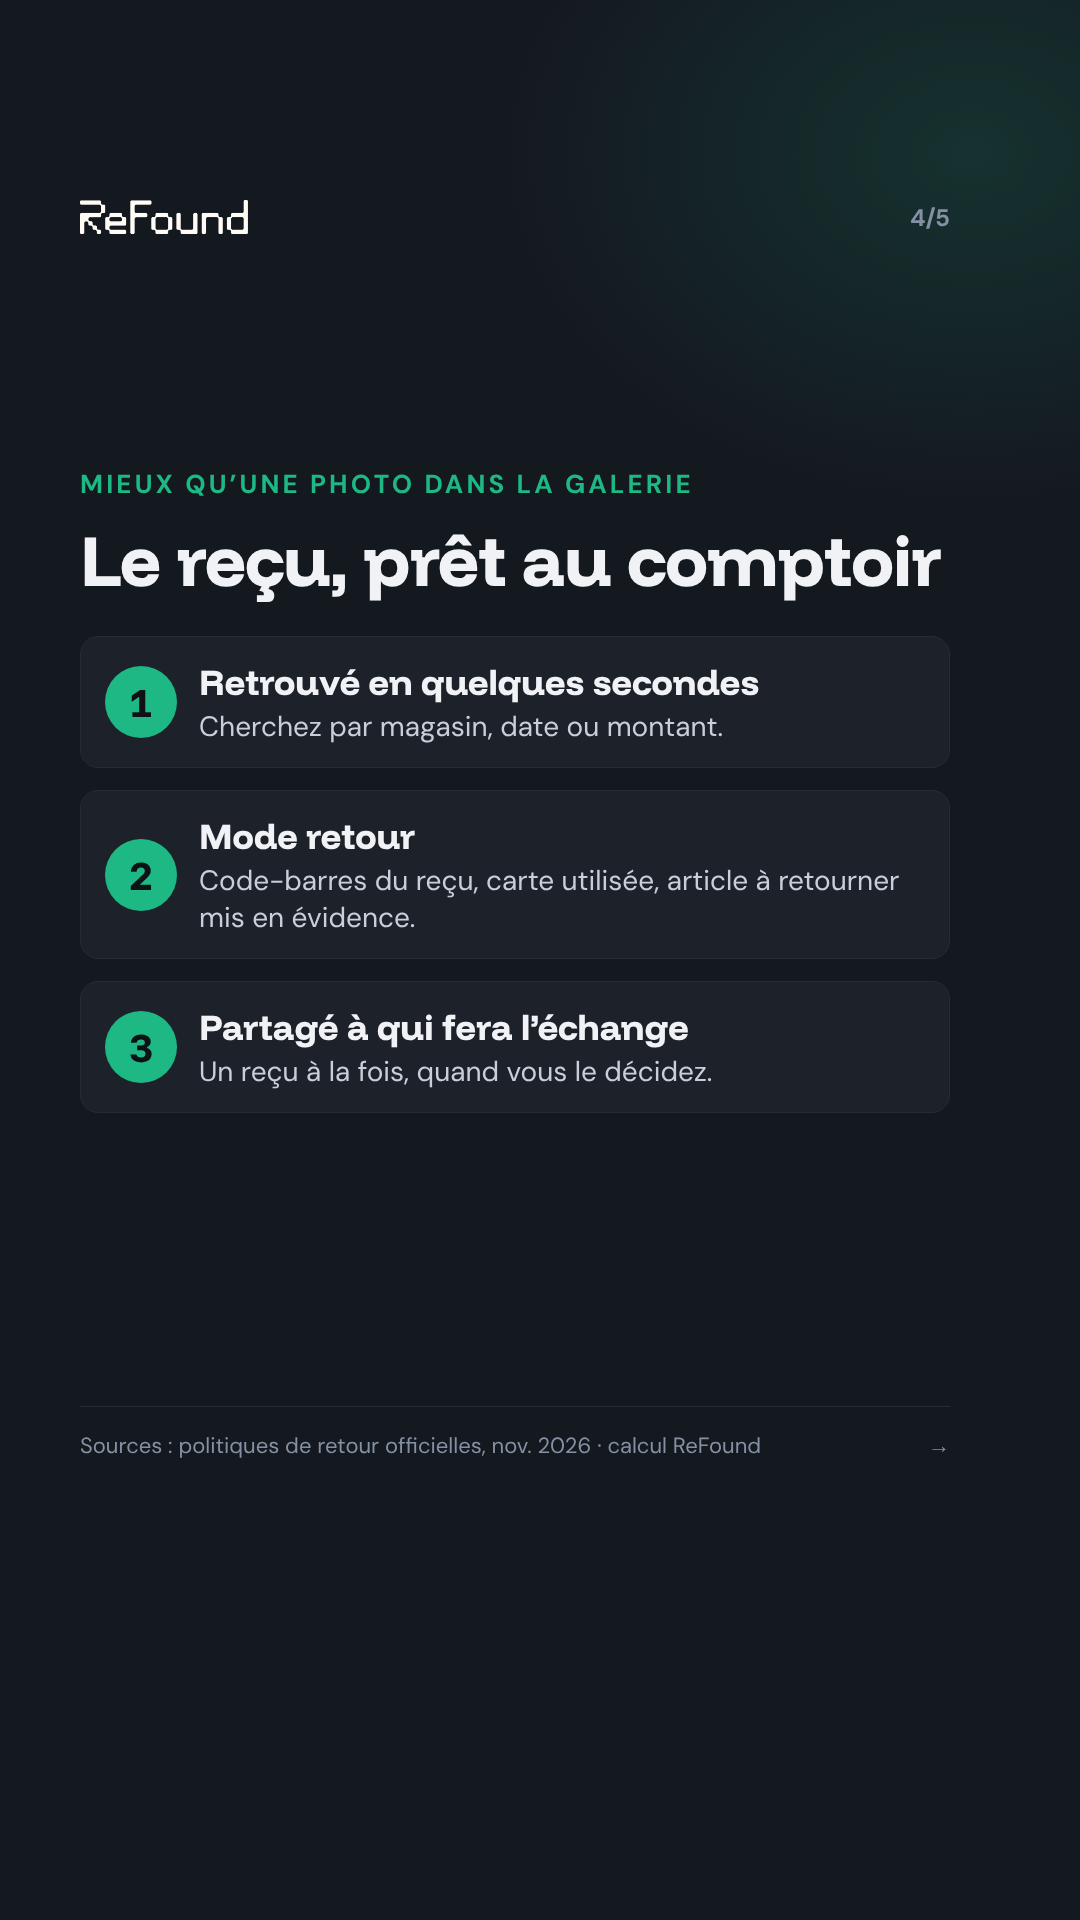
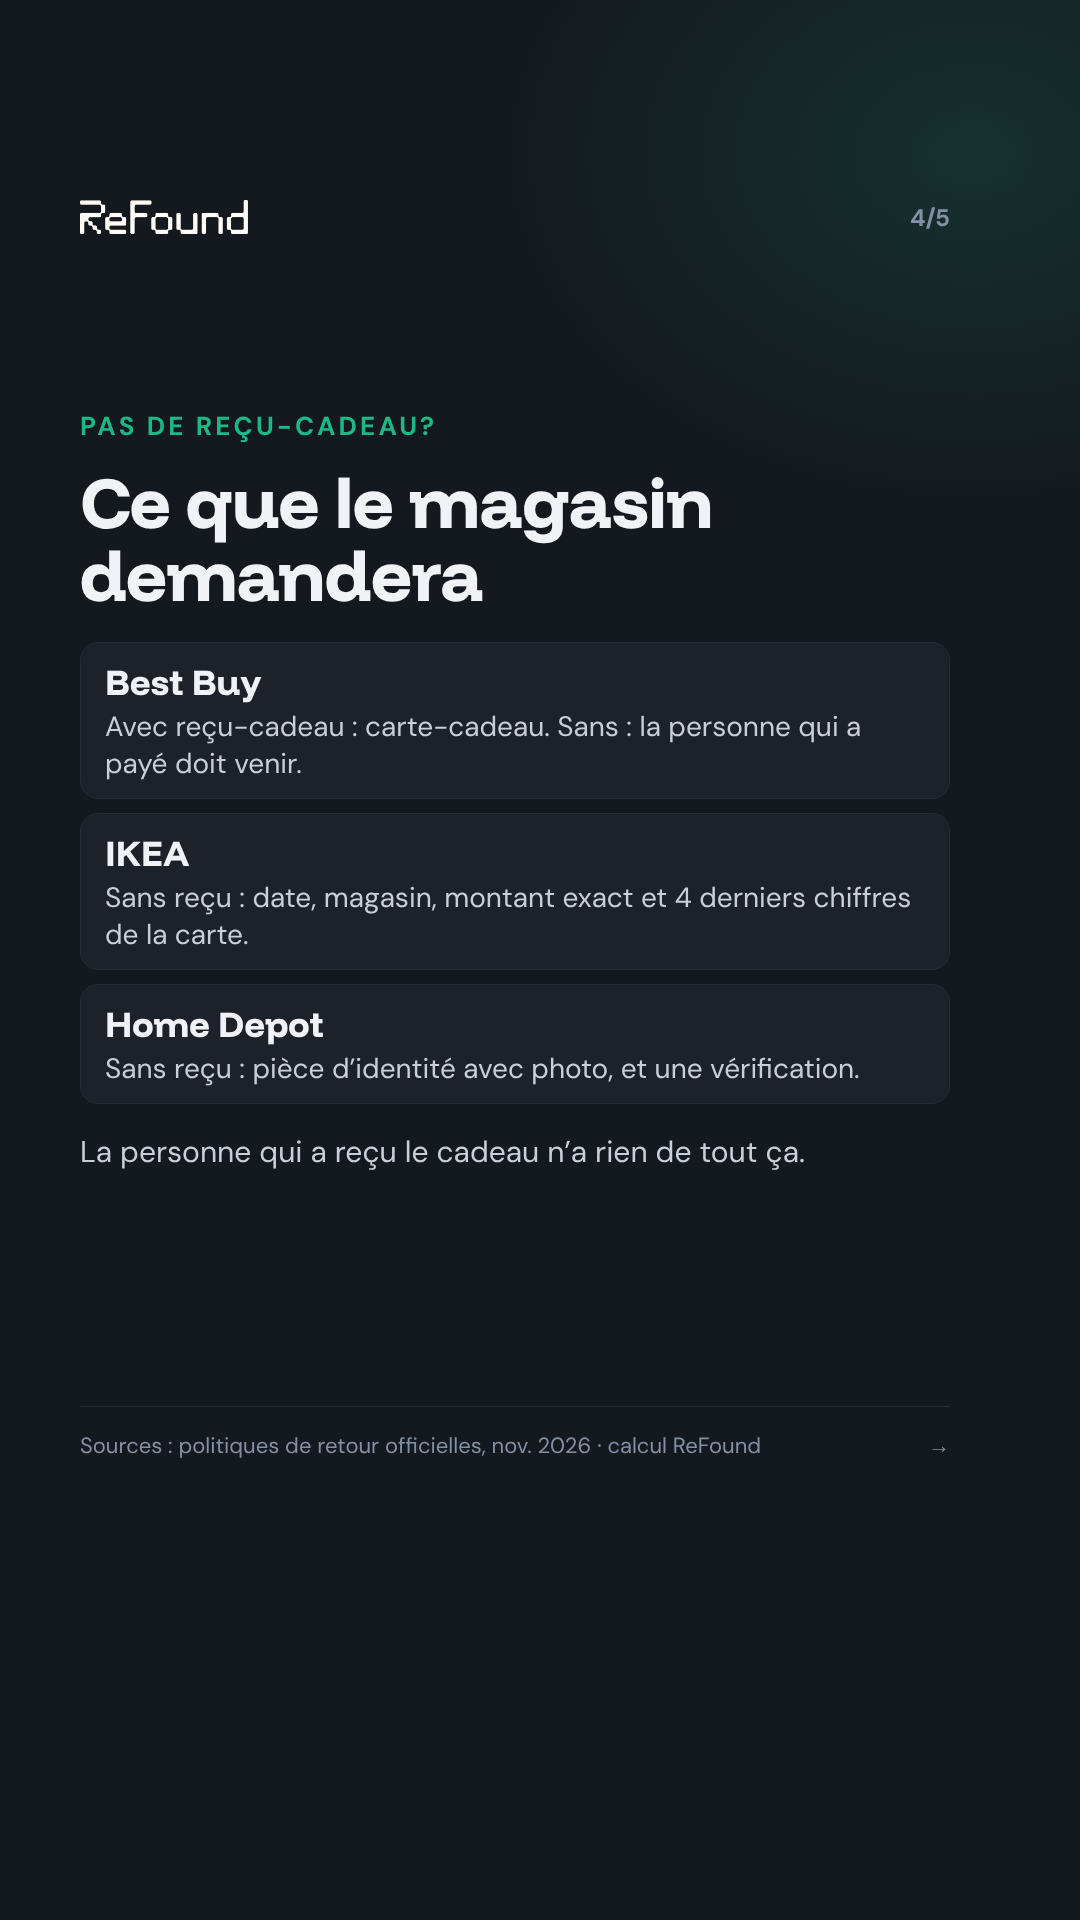
retourner-cadeau-noel carousel v4: app only on last slide, slide 4 = what stores ask without a receipt; VALIDATION lessons
Claude-Session: https://claude.ai/code/session_01RobFqgR2K4ctFiasTkgThL

diff --git a/social/retourner-cadeau-noel/slides.js b/social/retourner-cadeau-noel/slides.js
@@ -6,6 +6,8 @@
 // v2 après une ronde de personas (5,5 / 6 / 7) : magasins nommés sans numéros, Walmart, Costco et RONA ajoutés, « électronique » défini,
 // diapo Best Buy fusionnée, exemple de reçu hors sujet retiré, problème réel (le reçu est chez celui qui a payé).
 // v3 après la ronde 2 (7,5 / 7 / 8,5) : conseils génériques remplacés par ce que l'app fait de plus qu'une photo (facts/product.md : recherche du reçu complet, mode retour, partage — gratuits).
+// v4 (demande de David) : l'app seulement à la dernière diapo, nommée « l'app » ; diapo 4 = ce que les magasins demandent sans reçu (article, 12 nov. 2026).
+// Ronde 4 : 7,5 / 7,5 / 8,5 ; dernière diapo reliée au problème (partage du reçu).
 // Finale ronde 3 : Julie 8, Samuel 7,5, Gilles 9. Reste : aucune capture d'écran de l'app (demander à David une vraie capture du mode retour).
 module.exports = {
   fr: { src: 'Sources : politiques de retour officielles, nov. 2026 · calcul ReFound', slides: [
@@ -17,12 +19,13 @@ module.exports = {
       ['Costco', 'Télé et électronique : 25 févr.'],
       ['Best Buy', '10 janv. · Mais aucun retour en magasin le 26 déc.']],
       text: 'Électronique : télé, son, photo, téléphones. Walmart n’a pas annoncé de prolongation des Fêtes.' },
-    { type: 'text', eyebrow: 'Le vrai problème', title: 'Le cadeau est chez eux. Le reçu est chez vous.', text: 'Pour un retour, le magasin demande une preuve d’achat. C’est la personne qui a payé qui l’a : date, montant, carte.' },
-    { type: 'list', eyebrow: 'Mieux qu’une photo dans la galerie', title: 'Le reçu, prêt au comptoir', items: [
-      ['Retrouvé en quelques secondes', 'Cherchez par magasin, date ou montant.'],
-      ['Mode retour', 'Code-barres du reçu, carte utilisée, article à retourner mis en évidence.'],
-      ['Partagé à qui fera l’échange', 'Un reçu à la fois, quand vous le décidez.']] },
-    { type: 'cta', eyebrow: 'Gratuit · iPhone et Android', title: 'Téléchargez ReFound avant le Vendredi fou', text: 'Numérisez le reçu à la caisse, avant d’emballer. Et demandez un reçu-cadeau : sinon, vous devrez peut-être aller vous-même au magasin.' }] },
+    { type: 'text', eyebrow: 'Le vrai problème', title: 'Le cadeau est chez eux. Le reçu est chez vous.', text: 'Pour un retour, le magasin demande une preuve d’achat. C’est la personne qui a payé qui l’a.' },
+    { type: 'list', plain: true, eyebrow: 'Pas de reçu-cadeau?', title: 'Ce que le magasin demandera', items: [
+      ['Best Buy', 'Avec reçu-cadeau : carte-cadeau. Sans : la personne qui a payé doit venir.'],
+      ['IKEA', 'Sans reçu : date, magasin, montant exact et 4 derniers chiffres de la carte.'],
+      ['Home Depot', 'Sans reçu : pièce d’identité avec photo, et une vérification.']],
+      text: 'La personne qui a reçu le cadeau n’a rien de tout ça.' },
+    { type: 'cta', eyebrow: 'Gratuit · iPhone et Android', title: 'L’app ReFound garde le reçu de chaque cadeau', text: 'Une photo à la caisse, et vous l’envoyez à la personne qui fera l’échange.' }] },
   en: { src: 'Sources: official return policies, Nov. 2026 · ReFound calculation', slides: [
     { type: 'stat', eyebrow: 'Gift bought on Black Friday', stat: '2 days', title: 'after Christmas to return electronics at Canadian Tire', text: '30 days from the purchase, not from Christmas.<br><b>November 27 + 30 days = December 27.</b>' },
     { type: 'list', plain: true, eyebrow: 'Bought November 27', title: 'Bring it back by…', items: [
@@ -32,10 +35,11 @@ module.exports = {
       ['Costco', 'TVs and electronics: Feb. 25'],
       ['Best Buy', 'Jan. 10 · But no in-store returns on Dec. 26']],
       text: 'Electronics: TVs, audio, cameras, phones. Walmart hasn’t announced a holiday extension.' },
-    { type: 'text', eyebrow: 'The real problem', title: 'The gift is at their place. The receipt is at yours.', text: 'Stores ask for proof of purchase. The person who paid has it: date, amount, card.' },
-    { type: 'list', eyebrow: 'Better than a photo in your gallery', title: 'Your receipt, ready at the counter', items: [
-      ['Found in seconds', 'Search by store, date or amount.'],
-      ['Return mode', 'Receipt barcode, card used, the item to return highlighted.'],
-      ['Shared with whoever makes the exchange', 'One receipt at a time, when you decide.']] },
-    { type: 'cta', eyebrow: 'Free · iPhone and Android', title: 'Get ReFound before Black Friday', text: 'Scan the receipt at the checkout, before you wrap. And ask for a gift receipt: otherwise, you may have to go to the store yourself.' }] }
+    { type: 'text', eyebrow: 'The real problem', title: 'The gift is at their place. The receipt is at yours.', text: 'Stores ask for proof of purchase. The person who paid has it.' },
+    { type: 'list', plain: true, eyebrow: 'No gift receipt?', title: 'What the store will ask for', items: [
+      ['Best Buy', 'With a gift receipt: a gift card. Without: the person who paid has to come in.'],
+      ['IKEA', 'No receipt: date, store, exact amount and the card’s last 4 digits.'],
+      ['Home Depot', 'No receipt: government photo ID, and a verification.']],
+      text: 'The person who received the gift has none of that.' },
+    { type: 'cta', eyebrow: 'Free · iPhone and Android', title: 'The ReFound app keeps every gift receipt', text: 'One photo at the checkout, then send it to whoever makes the exchange.' }] }
 };

diff --git a/social/retourner-cadeau-noel/caption.md b/social/retourner-cadeau-noel/caption.md
@@ -17,8 +17,8 @@ Enregistrez-le pour le Vendredi fou, et envoyez-le à la personne qui achète le
 1. Cadeau électronique acheté au Vendredi fou : 2 jours après Noël pour le retourner chez Canadian Tire. 27 novembre + 30 jours = 27 décembre.
 2. Acheté le 27 novembre, à rapporter avant : Canadian Tire et Home Depot, télé et électronique le 27 décembre, le reste le 25 février ; Walmart, électronique le 27 décembre ; RONA, électroménagers le 27 décembre ; Costco, télé et électronique le 25 février ; Best Buy, le 10 janvier, sans retour en magasin le 26 décembre.
 3. Le cadeau est chez eux, le reçu est chez vous : la preuve d'achat appartient à la personne qui a payé.
-4. Mieux qu'une photo dans la galerie : le reçu retrouvé par magasin, date ou montant ; un mode retour avec le code-barres, la carte utilisée et l'article à retourner ; le partage à qui fera l'échange.
-5. Téléchargez ReFound avant le Vendredi fou, gratuit sur iPhone et Android : numérisez le reçu à la caisse, avant d'emballer, et demandez un reçu-cadeau.
+4. Pas de reçu-cadeau? Best Buy : carte-cadeau avec le reçu-cadeau, sinon la personne qui a payé doit venir ; IKEA : date, magasin, montant exact et 4 derniers chiffres de la carte ; Home Depot : pièce d'identité avec photo et une vérification.
+5. L'app ReFound, gratuite sur iPhone et Android, garde le reçu de chaque cadeau : une photo à la caisse, et vous l'envoyez à la personne qui fera l'échange.
 
 ## EN
 Returning a Christmas gift: the clock starts at purchase, not on December 25
@@ -37,5 +37,5 @@ Save it for Black Friday, and send it to whoever buys the gifts at your place.
 1. Electronics gift bought on Black Friday: 2 days after Christmas to return it at Canadian Tire. November 27 + 30 days = December 27.
 2. Bought November 27, bring it back by: Canadian Tire and Home Depot, TVs and electronics Dec. 27, everything else Feb. 25; Walmart, electronics Dec. 27; RONA, appliances Dec. 27; Costco, TVs and electronics Feb. 25; Best Buy, Jan. 10, no in-store returns Dec. 26.
 3. The gift is at their place, the receipt is at yours: proof of purchase belongs to the person who paid.
-4. Better than a gallery photo: find the receipt by store, date or amount; return mode with the barcode, card used and item to return; share it with whoever makes the exchange.
-5. Get ReFound before Black Friday, free on iPhone and Android: scan the receipt at the checkout, before you wrap, and ask for a gift receipt.
+4. No gift receipt? Best Buy: gift card with a gift receipt, otherwise the person who paid has to come in; IKEA: date, store, exact amount and the card's last 4 digits; Home Depot: government photo ID and a verification.
+5. The ReFound app, free on iPhone and Android, keeps every gift receipt: one photo at the checkout, then send it to whoever makes the exchange.

diff --git a/social/VALIDATION.md b/social/VALIDATION.md
@@ -57,6 +57,8 @@ puis 8, 7,5 et 8,5/10 après trois rondes. David a ensuite jugé le sujet trop p
 - **Les conseils que tout le monde connaît font décrocher.** Les remplacer par ce que l'app fait de plus qu'une photo dans la galerie (recherche, mode retour, partage), seulement avec `facts/product.md`.
 - **Un exemple de reçu hors sujet (bâton de hockey dans un carrousel sur l'électronique) et un code de caisse brut perdent les gens.** Mieux vaut aucun exemple.
 - **Dernière diapo : une action précise** (« Téléchargez ReFound avant le Vendredi fou »), pas seulement une adresse web.
+- **L'app seulement à la dernière diapo** (demande de David), nommée « l'app ReFound », et reliée au problème posé juste avant (ici : envoyer le reçu à la personne qui fait l'échange). Avant, une diapo « ce que fait l'app » au milieu n'était pas comprise comme parlant d'une app.
+- **Pas de paragraphe de conseils à la dernière diapo** : une phrase, une action.
 - Demande récurrente, à combler par David : une vraie capture d'écran de l'app (mode retour).
 
 ## Leçons du premier essai (à appliquer dès la première version)
